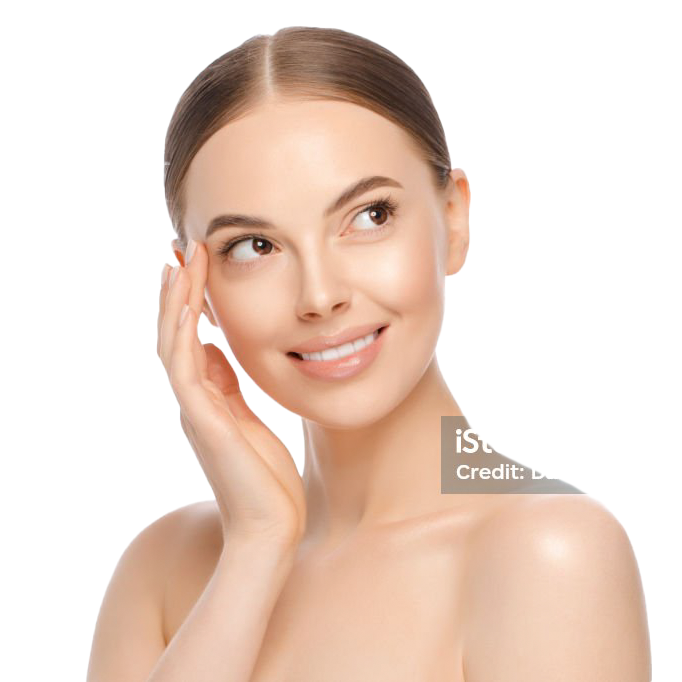
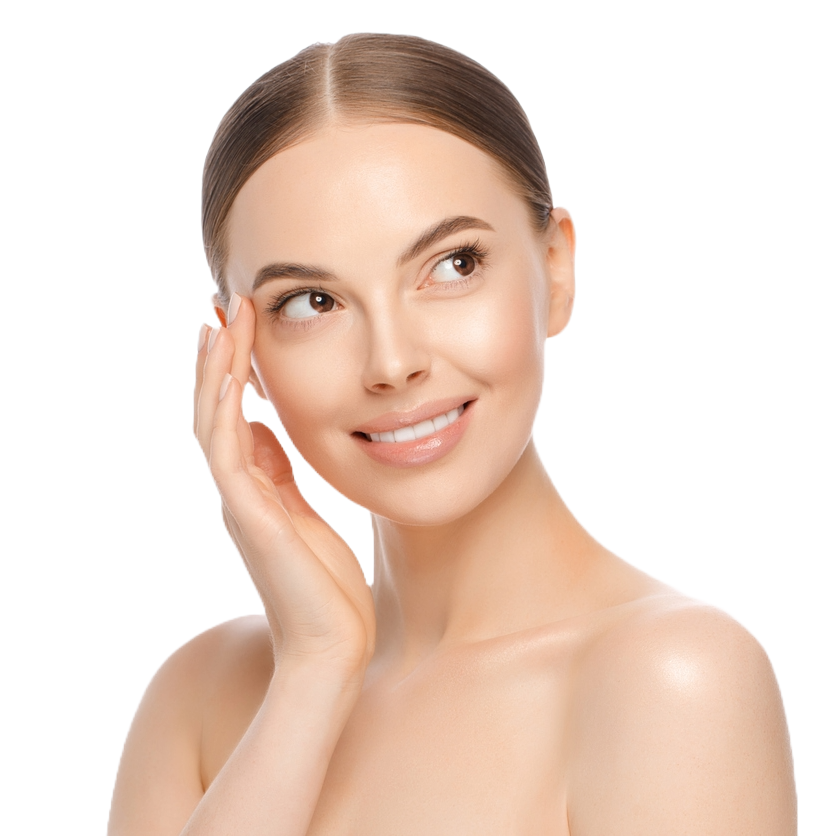
new models

diff --git a/build/index.html b/build/index.html
@@ -224,7 +224,7 @@ Anti Ageing &amp; Rejuvenation Dentistry
 <a href="/examination-and-diagnostics.html" class="button">Learn more</a>
 </div>
 </div>
-<img class='image__feature' src='images/clinic-photo3.jpg'>
+<img class='image__feature' src='images/examination.jpg'>
 </div>
 <div class='section__two-column section__two-column--reverse color-accent-1'>
 <img class='image__feature' src='images/well-being.webp'>

diff --git a/build/examination-and-diagnostics.html b/build/examination-and-diagnostics.html
@@ -140,7 +140,7 @@ Treatments
 </div>
 </div>
 </div>
-<img class='image__feature' src='images/clinic-photo3.jpg'>
+<img class='image__feature' src='images/examination.jpg'>
 </div>
 <div class='color-accent-2'>
 <div class='section__two-column'>
